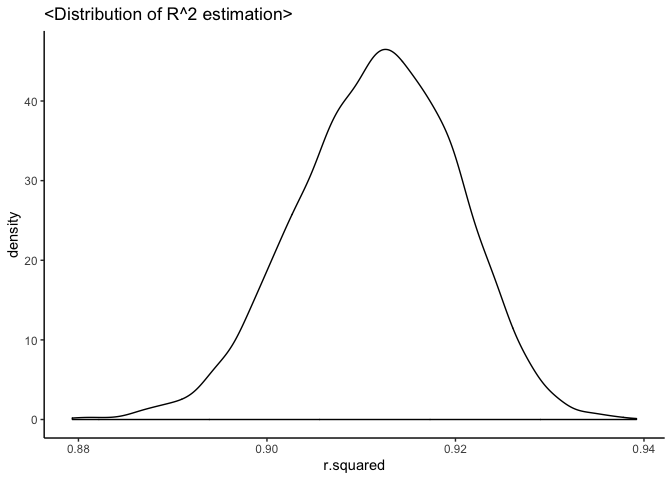
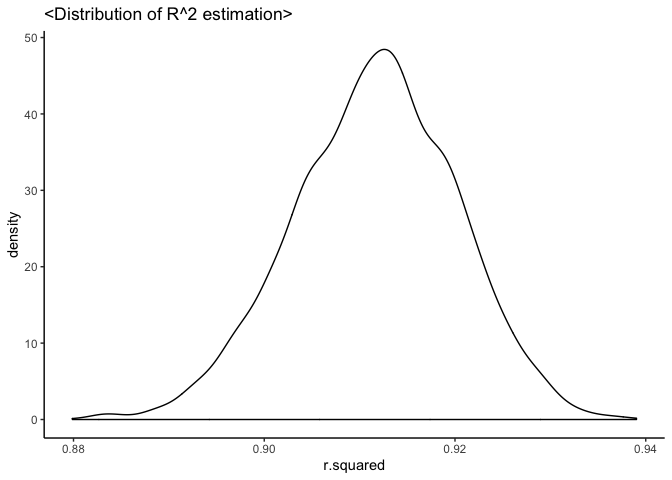
HW6_Complete

diff --git a/p8105_HW6_sp3804.md b/p8105_HW6_sp3804.md
@@ -320,20 +320,30 @@ notice the residual is highly skewed for “Black” race category.
 
 Plot the residuals along fitted value
 
-  - Even though the residuals are not skewed for all maternal race
-    category, in general, the residuals are pretty high in this model.
-  - As the birthweight increases, residuals get increase.
+  - The residual distribution along fitted value is centered around
+    zero.
+  - Among maternal race category, the residual of Black category is a
+    little left-skewed.
 
 <!-- end list -->
 
 ``` r
 birthweight %>%
-  ggplot(aes(x=bwt, y=resid, color=mrace)) +
+  ggplot(aes(x=pred, y=resid, color=mrace)) +
   geom_point() +labs(title = "<Residuals against fitted value>") + facet_wrap("mrace")+
   theme_classic()
 ```
 
 ![](p8105_HW6_sp3804_files/figure-gfm/unnamed-chunk-9-1.png)<!-- -->
+
+``` r
+birthweight %>%
+  ggplot(aes(x=pred, y=resid, color=mrace)) +
+  geom_point() +labs(title = "<Residuals against fitted value>") +
+  theme_classic()
+```
+
+![](p8105_HW6_sp3804_files/figure-gfm/unnamed-chunk-9-2.png)<!-- -->
 
 ### Compare your model to two others:
 
@@ -512,6 +522,12 @@ boot_straps= weather_df %>%
 
 ### Plot the distribution of your estimates, and describe these in words.
 
+  - R^2 estimate is almost normally distributed, even though having
+    slight tail extending to low values and a bit of a “shoulder”
+  - log(B0\*B1) estimate is almost normally distributed.
+
+<!-- end list -->
+
 ``` r
 boot_straps %>% 
   select(-strap, -.id, -temp_model) %>% 
@@ -529,9 +545,24 @@ boot_straps %>%
   select(term,estimate) %>%
   set_value_labels(term=c(Beta0="(Intercept)", Beta1="tmin"))%>%
   mutate_if(is.labelled,to_factor) %>%
-  ggplot(aes(x = estimate, color=term)) + geom_density() +theme_classic()+facet_wrap("term")+
-  labs(title="<Distribution of coefficients estimation>")
+  pivot_wider(
+    names_from = term,
+    values_from = estimate
+  )%>%
+  unnest() %>%
+  mutate(
+    log_B0_B1 = Beta0*Beta1
+  )%>%
+  ggplot(aes(x = log_B0_B1)) + geom_density() +theme_classic()+ labs(title="<Distribution of log(B0*B1) estimation>")
 ```
+
+    ## Warning: Values in `estimate` are not uniquely identified; output will contain list-cols.
+    ## * Use `values_fn = list(estimate = list)` to suppress this warning.
+    ## * Use `values_fn = list(estimate = length)` to identify where the duplicates arise
+    ## * Use `values_fn = list(estimate = summary_fun)` to summarise duplicates
+
+    ## Warning: `cols` is now required.
+    ## Please use `cols = c(Beta0, Beta1)`
 
 ![](p8105_HW6_sp3804_files/figure-gfm/unnamed-chunk-16-2.png)<!-- -->
 
@@ -550,7 +581,7 @@ boot_straps %>%
     ## # A tibble: 1 x 2
     ##   R2_CI_low R2_CI_upper
     ##       <dbl>       <dbl>
-    ## 1     0.894       0.927
+    ## 1     0.894       0.928
 
 ### 95% CI for log(B0\*B1)
 
@@ -587,4 +618,4 @@ boot_straps %>%
     ## # A tibble: 1 x 2
     ##   CI_low CI_upper
     ##    <dbl>    <dbl>
-    ## 1   7.13     7.84
+    ## 1   7.13     7.83
